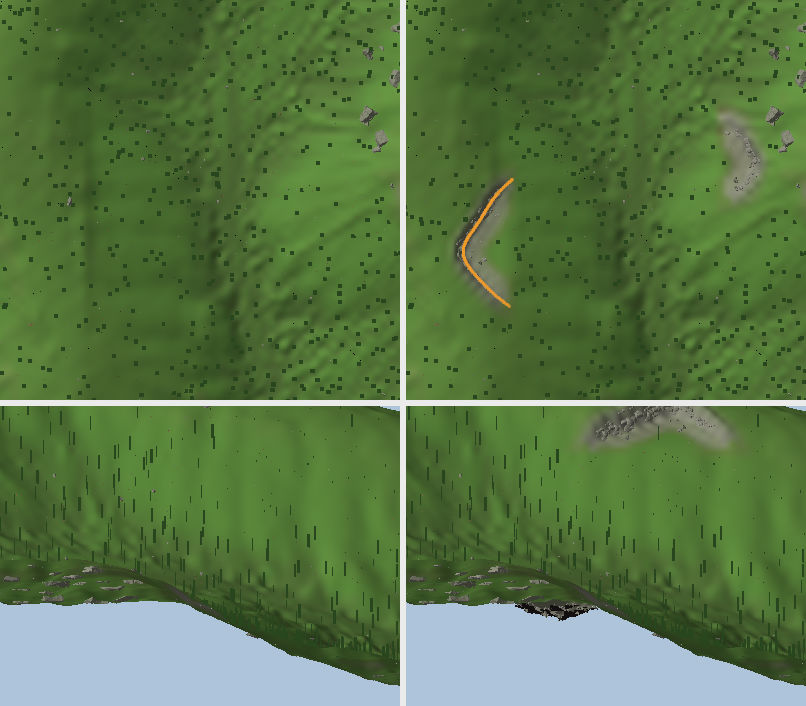
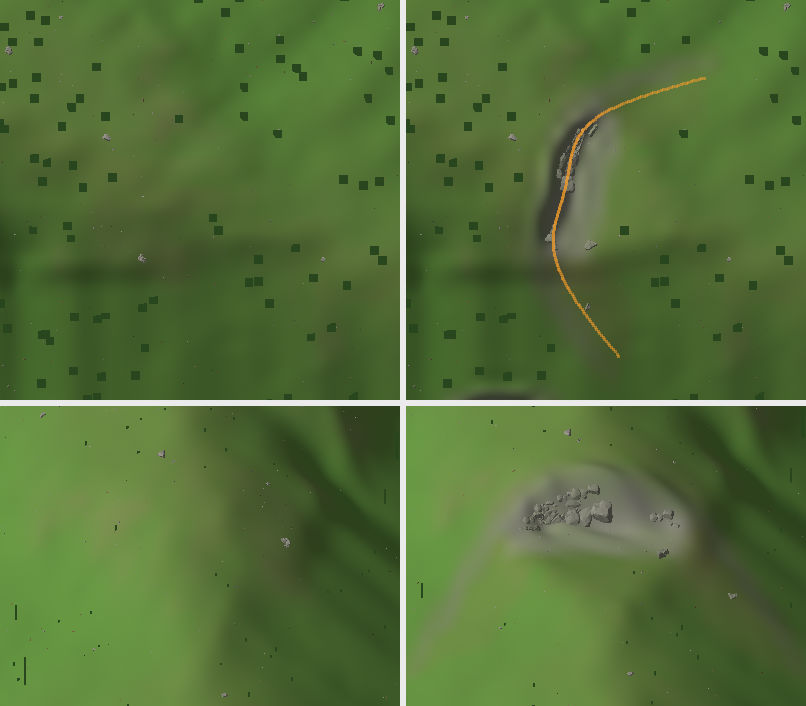
cretaceous: terra version 22 (shoulders keep off the beaches), review images on the final bake

diff --git a/ocean/cretaceous/terra/terra.h b/ocean/cretaceous/terra/terra.h
@@ -23,7 +23,7 @@
 extern "C" {
 #endif
 
-#define TERRA_VERSION 21u
+#define TERRA_VERSION 22u
 #define TERRA_DRY (-1.0e4f)   // water surface value for cells with no water
 
 enum { TERRA_WATER_NONE, TERRA_WATER_SEA, TERRA_WATER_LAKE, TERRA_WATER_RIVER };

diff --git a/ocean/cretaceous/README.md b/ocean/cretaceous/README.md
@@ -316,7 +316,7 @@ The terra bake pipeline:
 - orogens 0.065–0.1 of the map wide, segmented along their length; hotspot volcanoes as broad warped shields with long concave flanks and a summit crater;
 - droplet erosion and lakes from a priority flood;
 - coastal flats: on about half the coastline, land near the sea is lowered onto a gentle beach profile (35–110 m wide) and the seabed offshore is raised into a shallow shelf;
-- rock shoulders: curved notches with a rock wall cut into valley sides (version 21; see Rock shoulders);
+- rock shoulders: curved notches with a rock wall cut into valley sides (version 22; see Rock shoulders);
 - rivers carved along flow;
 - surface materials and vegetation from moisture, temperature, slope and curvature;
 - at load (not saved, so the world file and its version stay): a half-resolution habitat grid (moisture index, nearness to rivers and the sea, landform) from the fields every build ships (`terra_habitat`), which picks the species of every plant (docs/flora.md).
